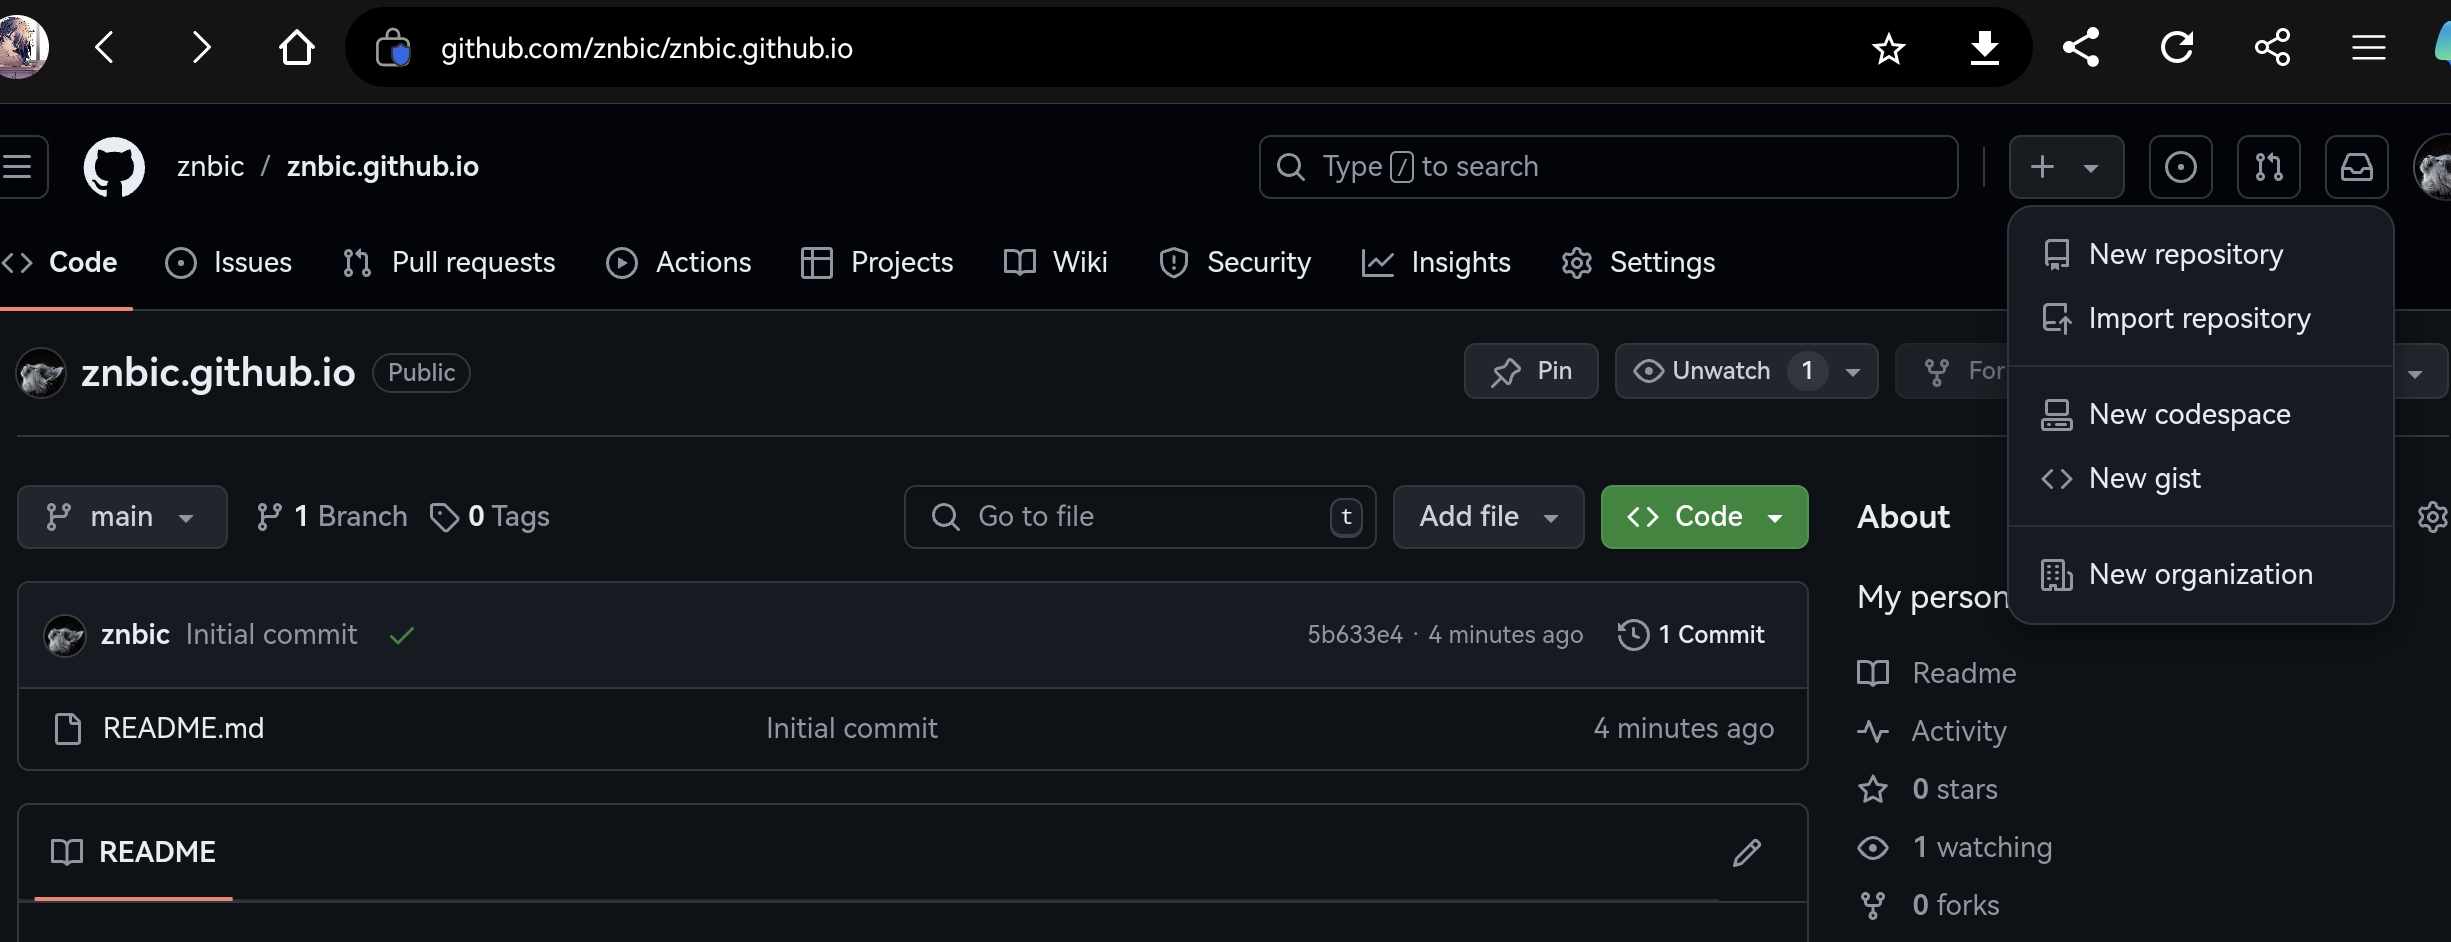
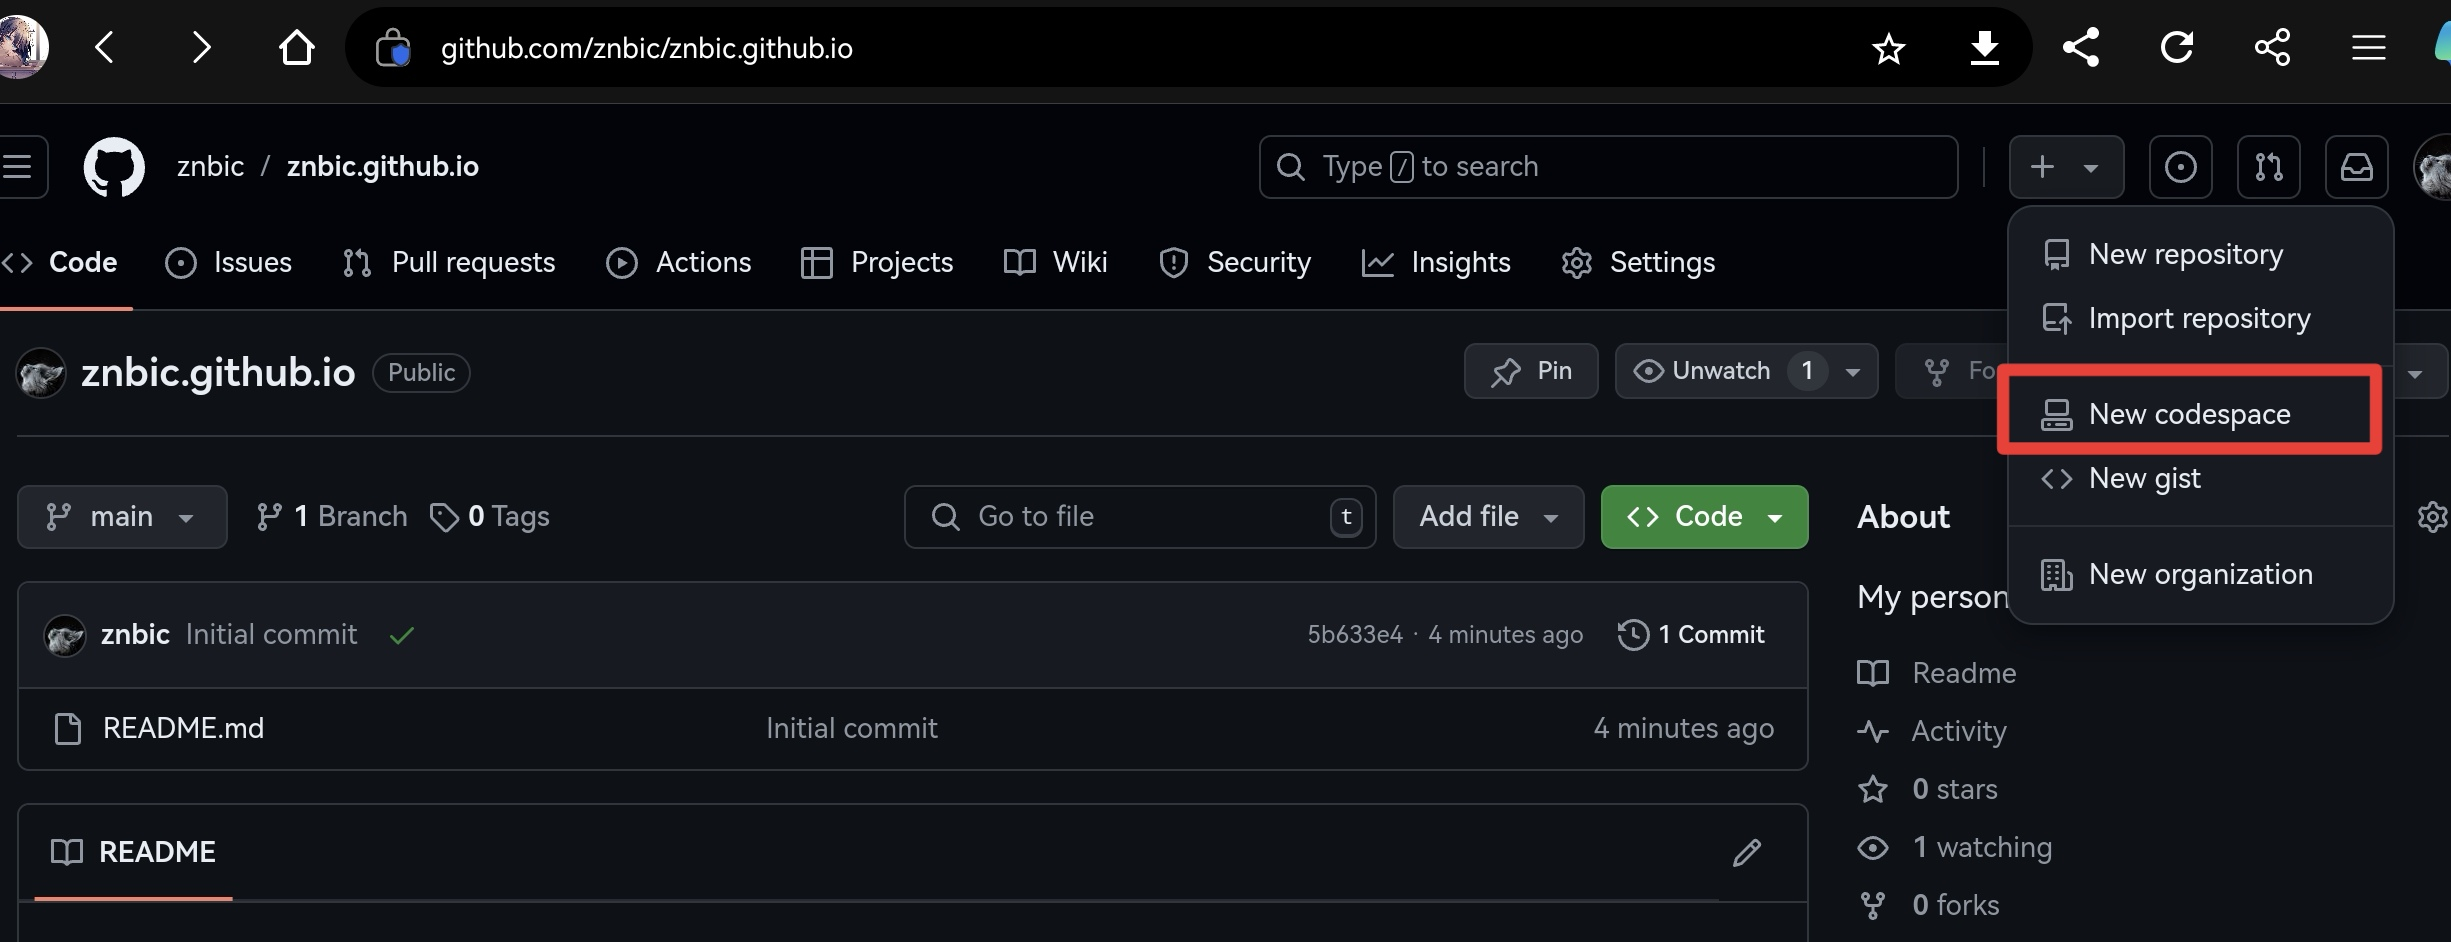
blog update

Changed region(s): [[0.8062, 0.3694, 0.9922, 0.4926]]

diff --git a/_posts/2024-08-13-Github-Page-创建教程.md b/_posts/2024-08-13-Github-Page-创建教程.md
@@ -1,43 +1,72 @@
-# 如何只用华为平板建立Github Page
+---
+categories: tutorial
+---
+## 前言
 
+不使用电脑，仅使用平板来建立一个博客。有一说一，这好像不是很难。但是新建博客了，总得写点什么吧。不然空荡荡的，只有 `jekyll` 官方的一篇示例。于是便记录了过程中的一些截图，然后写了这篇博文。
+
+本教程基于华为 `matepad 12.6 2022`，使用 `Edge` 浏览器。使用 `Github` 平台的 `Github Page `服务，基于 `jekyll` 模板，使用默认 `jekyll` 主题 `minima`。
 
 ## 创建仓库
 
 1. 点击创建仓库按钮
+
 ![点击创建仓库按钮]({{'../assets/Images/2024-08-13-Github-Page-Create-Tutorial/create%20repo%20button.jpg'| relative_url }})
 
 2. 创建仓库
+
 ![创建仓库]({{'../assets/Images/2024-08-13-Github-Page-Create-Tutorial/create_repo.jpg' | relative_url }})
 
 ## 创建Codespace
 
-1. 点击
+1. 点击新建codespace按钮
 ![点击创建codespace按钮]({{'../assets/Images/2024-08-13-Github-Page-Create-Tutorial/newCodespaceButton.jpg' | relative_url }})
 
-2. codespace
+2. codespace设定
+直接默认设定就行了。
 ![创建codespace]({{'../assets/Images/2024-08-13-Github-Page-Create-Tutorial/createCodeSpace.jpg' | relative_url }})
 
 ## jekyll生成博客
 
-1. 
+1. 命令行操作
+
+首先打开终端，如下图所示（也可以使用 ``Ctrl + Shift + ` ``打开终端，`` ` ``是反引号，在键盘左上角）。
+
+![jekyll创建博客]({{'../assets/Images/2024-08-13-Github-Page-Create-Tutorial/openTerminal.jpg' | relative_url }})
+
+运行下图中 3 个命令，你也可以只运行步骤3。
+
 ![jekyll创建博客]({{'../assets/Images/2024-08-13-Github-Page-Create-Tutorial/createBlog.jpg' | relative_url }})
 
-2. 
+你可能不懂命令行——只需要输入图中框起来的内容，然后回车就行。如果想在命令行中翻页的话，可以使用` Shift + PageUp / PageDown`。 
+
+
+
+
+2. 修改设置
+根据你的需求自行修改参数。
 ![个人信息修改]({{'../assets/Images/2024-08-13-Github-Page-Create-Tutorial/cofigProfile.jpg' | relative_url }})
 
 ## git提交修改并同步
 
-1. 
-![git提交Commit]({{'../assets/Images/2024-08-13-Github-Page-Create-Tutorial/gitCommit.jpg' | relative_url }})
+1. `git commit`
 
-2. 
+如果你没听过` git`，照着图片做好了。 
+
 ![git暂存变更]({{'../assets/Images/2024-08-13-Github-Page-Create-Tutorial/stageChanges.jpg' | relative_url }})
 
-3. 
+2. `git` 推送到 `Github`
+
 ![同步变更到Github]({{'../assets/Images/2024-08-13-Github-Page-Create-Tutorial/syncChanges.jpg' | relative_url }})
 
 ## 访问博客
 
-1. 
+大功告成，等40s左右（我是这个时间）。`Github`需要一定时间来生成网站，等生成好后，你就可以输入网址：https://github用户名.github.io （例如我的是：https://znbic.github.io）访问了。
+
 ![访问博客]({{'../assets/Images/2024-08-13-Github-Page-Create-Tutorial/visitBlog.jpg' | relative_url }})
 
+## 后记
+
+这篇博客也是仅用华为平板编辑的，华为的图片编辑还是不行，只是凑合用的程度，所以请读者体谅一下。
+
+因为习惯了英文的`vs code`，然后找不到语言切换，只能把平板的语言换成英语来更改`vs code`语言，接着发现华为平板的手写笔输入不了中文了。所以平板还是不如电脑操作起来方便啊～

diff --git a/_drafts/Note/cli/termux 配置.md b/_drafts/Note/cli/termux 配置.md
@@ -4,7 +4,7 @@
 ## root
 pkg install proot-distro
 proot-distro install ubuntu
-## 登陆Ubuntu
+## 登录 Ubuntu
 proot-distro login ubuntu
 
 %%
